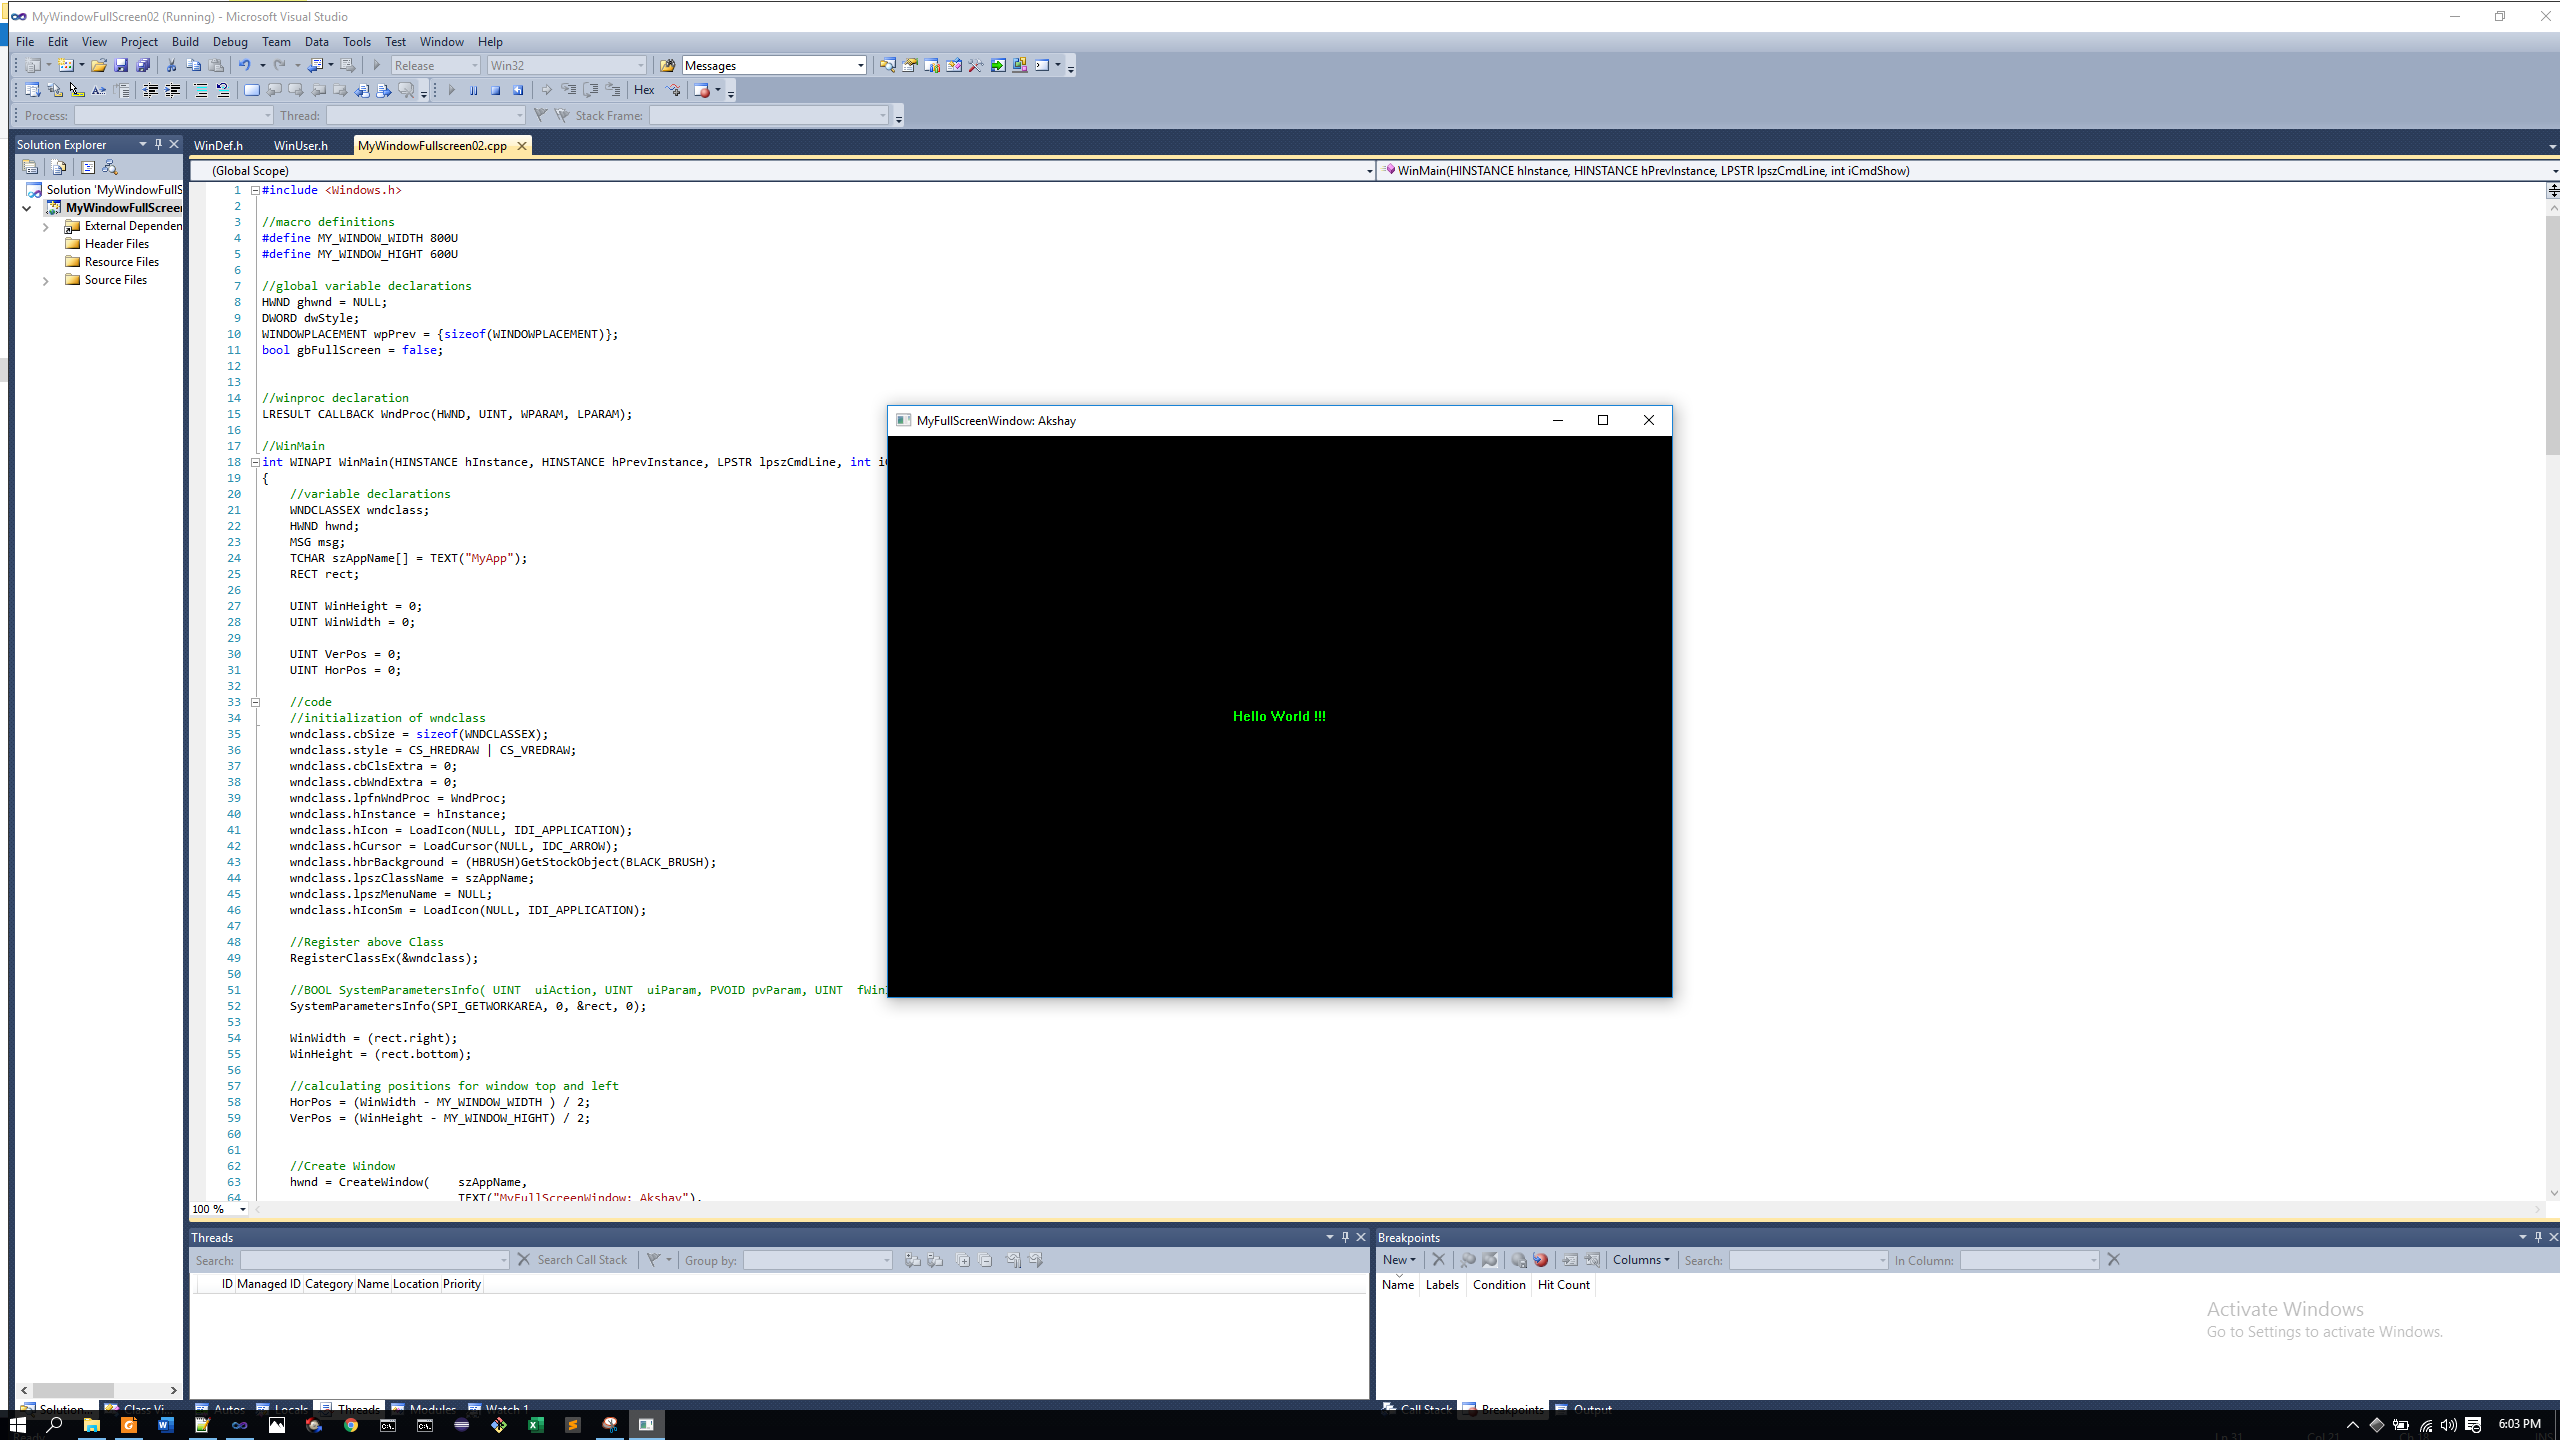
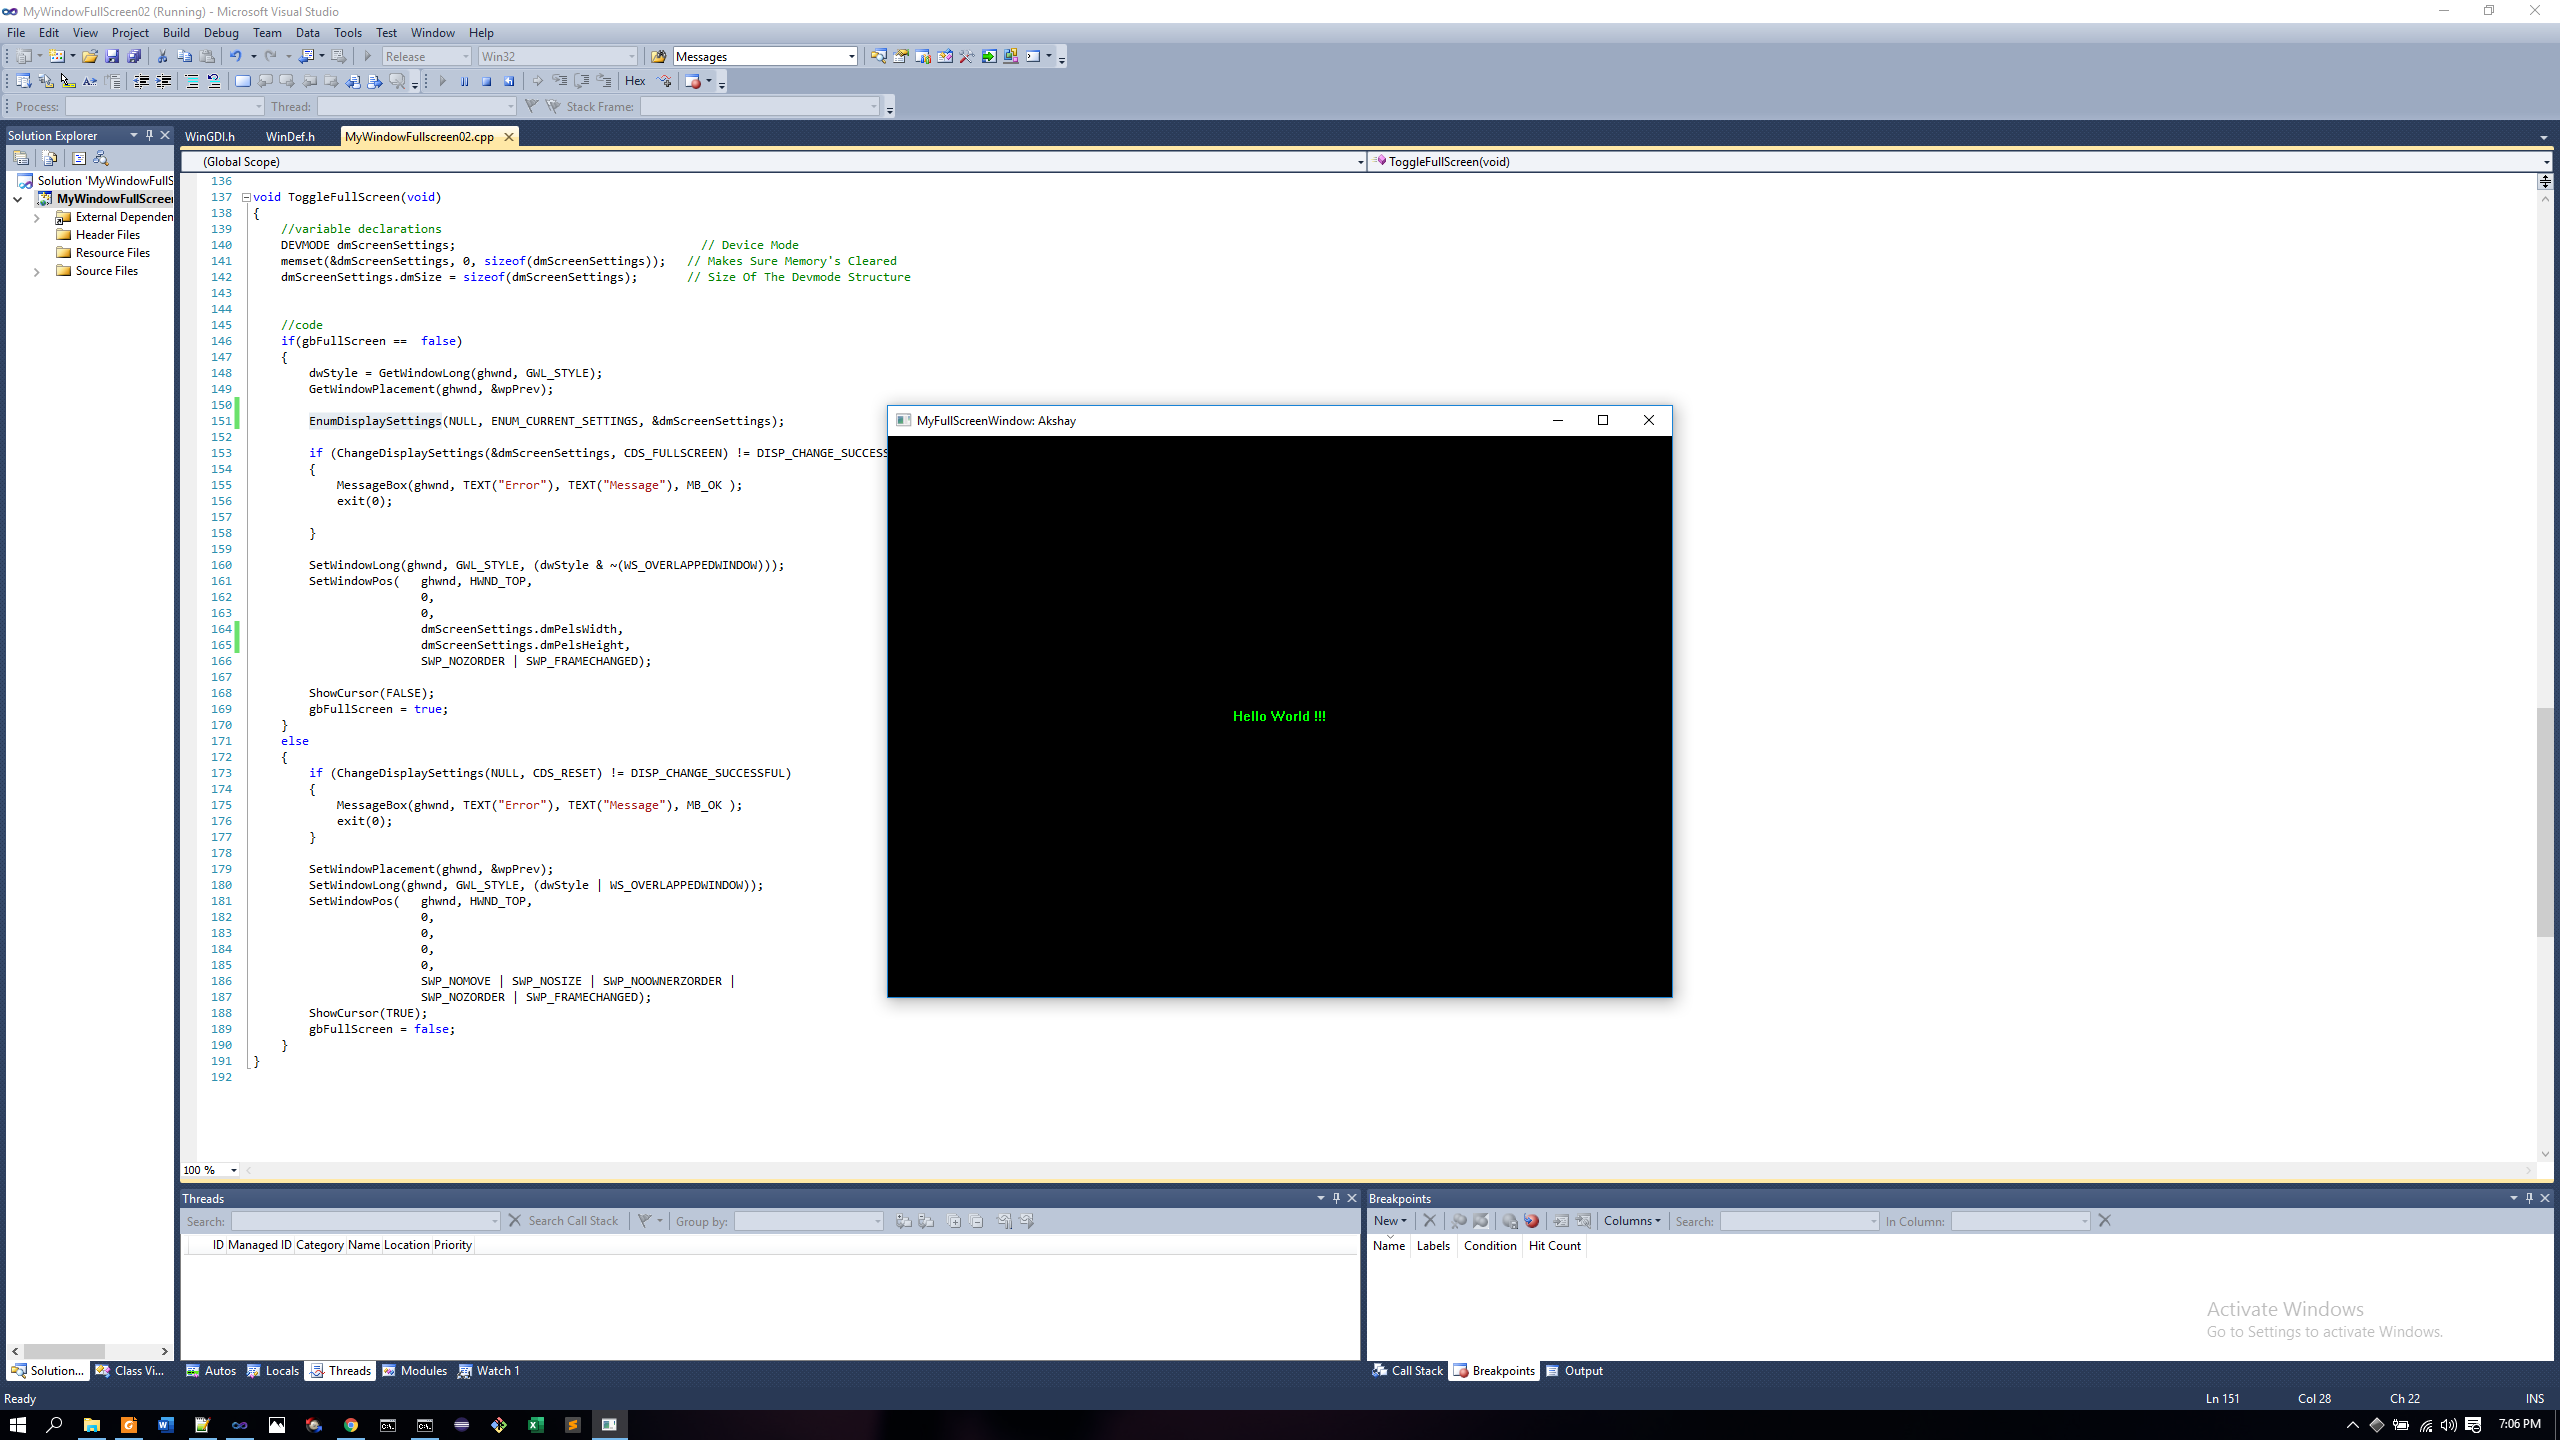
Added EnumDisplaySettings

diff --git a/01-Windows/00-Windowing/06-Fullscreen/02-Method02/MyWindowFullscreen02.cpp b/01-Windows/00-Windowing/06-Fullscreen/02-Method02/MyWindowFullscreen02.cpp
@@ -137,9 +137,9 @@ LRESULT CALLBACK WndProc(HWND hwnd, UINT iMsg, WPARAM wParam, LPARAM lParam)
 void ToggleFullScreen(void)
 {
 	//variable declarations
-	DEVMODE dmScreenSettings;                               // Device Mode
-    memset(&dmScreenSettings,0,sizeof(dmScreenSettings));   // Makes Sure Memory's Cleared
-    dmScreenSettings.dmSize=sizeof(dmScreenSettings);       // Size Of The Devmode Structure
+	DEVMODE dmScreenSettings;									// Device Mode
+	memset(&dmScreenSettings, 0, sizeof(dmScreenSettings));   // Makes Sure Memory's Cleared
+	dmScreenSettings.dmSize = sizeof(dmScreenSettings);       // Size Of The Devmode Structure
 
 
 	//code
@@ -148,10 +148,7 @@ void ToggleFullScreen(void)
 		dwStyle = GetWindowLong(ghwnd, GWL_STYLE);
 		GetWindowPlacement(ghwnd, &wpPrev);
 
-		dmScreenSettings.dmPelsWidth = MY_WINDOW_WIDTH;
-		dmScreenSettings.dmPelsHeight = MY_WINDOW_HIGHT;
-		dmScreenSettings.dmBitsPerPel = 32;
-		dmScreenSettings.dmFields = DM_BITSPERPEL | DM_PELSWIDTH | DM_PELSHEIGHT;
+		EnumDisplaySettings(NULL, ENUM_CURRENT_SETTINGS, &dmScreenSettings);
 
 		if (ChangeDisplaySettings(&dmScreenSettings, CDS_FULLSCREEN) != DISP_CHANGE_SUCCESSFUL)
 		{
@@ -164,8 +161,8 @@ void ToggleFullScreen(void)
 		SetWindowPos(	ghwnd, HWND_TOP, 
 						0, 
 						0,
-						MY_WINDOW_WIDTH,
-						MY_WINDOW_HIGHT,
+						dmScreenSettings.dmPelsWidth,
+						dmScreenSettings.dmPelsHeight,
 						SWP_NOZORDER | SWP_FRAMECHANGED);
 
 		ShowCursor(FALSE);
